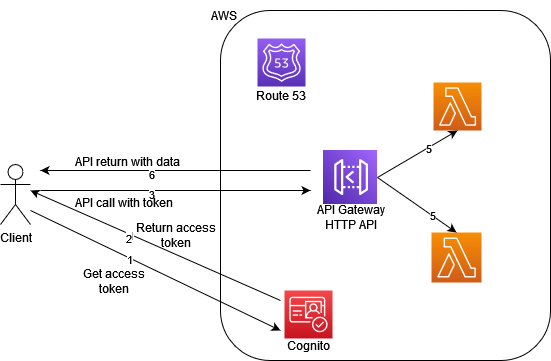
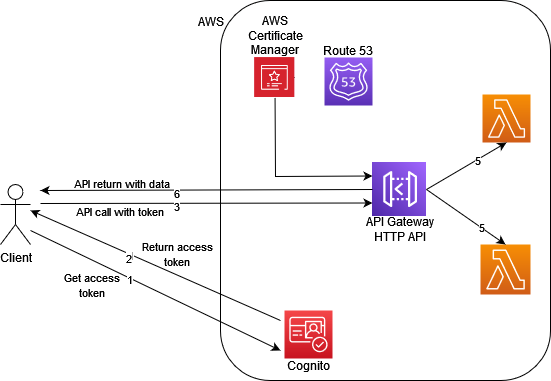
Code cleanup

diff --git a/calculator_api/calculator_api_stack.py b/calculator_api/calculator_api_stack.py
@@ -1,13 +1,11 @@
 from aws_cdk import(
-    App,
     Stack,
     RemovalPolicy,
     CfnOutput,
     Aws,
     Duration,
-    aws_apigatewayv2_alpha as aws_apigatewayv2,
+    aws_apigatewayv2_alpha,
     aws_apigatewayv2 as aws_apigatewayv2_stable,
-    aws_apigatewayv2_authorizers_alpha as aws_apigatewayv2_authorizers,
     aws_route53,
     aws_route53_targets,
     aws_lambda,
@@ -24,16 +22,11 @@ class CalculatorApiStack(Stack):
     def __init__(self, scope: Construct, construct_id: str, **kwargs) -> None:
         super().__init__(scope, construct_id, **kwargs)
 
-
         # Variables
         dns_domain = os.environ.get('DNS_DOMAIN', "my-domain.com")
-
         sub_domain_public = "calculator-api"
-
         userpool_domain = sub_domain_public
-
         hosted_zone = aws_route53.HostedZone.from_lookup( self, dns_domain, domain_name=dns_domain )
-
 
         # Cognito
 
@@ -95,22 +88,20 @@ class CalculatorApiStack(Stack):
             value=userpool_client.user_pool_client_id
         )
 
-        authorizer = aws_apigatewayv2_authorizers.HttpUserPoolAuthorizer(
-            "APIGWAuthorizer",
-            authorizer_name="APIGWAuthorizer",
-            pool=userpool,
-            user_pool_clients=[userpool_client]
+        # Add Cognito Client Secret to Cloudformation output
+        CfnOutput(
+            self,
+            "UserPoolClientSecret",
+            value=userpool_client.user_pool_client_secret.to_string()
         )
-
 
         self.userpool_id = userpool.user_pool_id
         self.userpool_audience = userpool_client.user_pool_client_id
         self.userpool_demain_name = "https://" + userpool_domain + ".auth." + Aws.REGION + ".amazoncognito.com"
         self.jwt_issuer = "https://cognito-idp." + Aws.REGION + ".amazonaws.com/" + self.userpool_id
 
-
         # HTTP API
-        apigw = aws_apigatewayv2.HttpApi(
+        apigw = aws_apigatewayv2_alpha.HttpApi(
             self,
             "calculator_api",
             api_name="calculator_api",
@@ -118,14 +109,13 @@ class CalculatorApiStack(Stack):
             create_default_stage=False
         )
 
-        default_stage = aws_apigatewayv2.HttpStage(
+        default_stage = aws_apigatewayv2_alpha.HttpStage(
             self,
             "DefaultStage",
             http_api=apigw,
             stage_name="$default",
             auto_deploy=True
         )
-
 
         # Lambda "lambda_plus" in Python
         with open("lambdas/lambda_plus.py", encoding="utf8") as fp:
@@ -150,7 +140,7 @@ class CalculatorApiStack(Stack):
             source_arn="arn:aws:execute-api:" + Aws.REGION + ":" + Aws.ACCOUNT_ID + ":" + apigw.http_api_id +"/*/*/plus"
         )
 
-        # Lambda "lambda_minus" in JS
+        # Lambda "lambda_minus" in Typescript
         with open("lambdas/lambda_minus.js", encoding="utf8") as fp:
             handler_code = fp.read()
 
@@ -195,60 +185,37 @@ class CalculatorApiStack(Stack):
             principal=iam.ServicePrincipal(service="apigateway.amazonaws.com"),
             source_arn="arn:aws:execute-api:" + Aws.REGION + ":" + Aws.ACCOUNT_ID + ":" + apigw.http_api_id +"/*/$default"
         )
-
-        # Lambda "lambda_test_typescript" in Typescript
-        with open("lambdas/typescript/dist/index.js", encoding="utf8") as fp:
-            handler_code = fp.read()
-
-        lambda_typescript = aws_lambda.Function(
-            self,
-            "lambda_typescrypt",
-            function_name="lambda_typescript",
-            description="Simple lambda with typescript",
-            code=aws_lambda.Code.from_asset('lambdas/typescript/dist/'),
-            handler="index.handler",
-            timeout=Duration.seconds(3),
-            runtime=aws_lambda.Runtime.NODEJS_14_X
-        )
-
-        # Permission for HTTP API to call the LAmbda function
-        lambda_typescript.add_permission(
-            "ApiGwPermLambdaDefaultRoute",
-            action="lambda:InvokeFunction",
-            principal=iam.ServicePrincipal(service="apigateway.amazonaws.com"),
-            source_arn="arn:aws:execute-api:" + Aws.REGION + ":" + Aws.ACCOUNT_ID + ":" + apigw.http_api_id +"/*/*/ts"
-        )
-        
-        # Default Integration + default authorizer
-        default_integration = aws_apigatewayv2.HttpIntegration(
+   
+        # Default Integration + default authorizer (JWT)
+        default_integration = aws_apigatewayv2_alpha.HttpIntegration(
             self,
             "DefaultIntegration",
             http_api=apigw,
-            integration_type=aws_apigatewayv2.HttpIntegrationType.AWS_PROXY, # LAMBDA_PROXY for cdk v1
+            integration_type=aws_apigatewayv2_alpha.HttpIntegrationType.AWS_PROXY, # LAMBDA_PROXY for cdk v1
             integration_uri=lambda_default_route.function_arn,
-            method=aws_apigatewayv2.HttpMethod.ANY,
-            payload_format_version=aws_apigatewayv2.PayloadFormatVersion.VERSION_2_0,
+            method=aws_apigatewayv2_alpha.HttpMethod.ANY,
+            payload_format_version=aws_apigatewayv2_alpha.PayloadFormatVersion.VERSION_2_0,
             secure_server_name=sub_domain_public + '.' + dns_domain
         )
 
-        jwt_authorizer = aws_apigatewayv2.HttpAuthorizer(
+        jwt_authorizer = aws_apigatewayv2_alpha.HttpAuthorizer(
             self,
             "JWTAuthorizer",
             http_api=apigw,
             identity_source=["$request.header.Authorization"],
-            type=aws_apigatewayv2.HttpAuthorizerType.JWT,
+            type=aws_apigatewayv2_alpha.HttpAuthorizerType.JWT,
             authorizer_name="JWTAuthorizer",
             jwt_audience=[self.userpool_audience],
             jwt_issuer=self.jwt_issuer
         )
 
-        # Default route
+        # Default route without authentication
         http_api_route_default = aws_apigatewayv2_stable.CfnRoute(
             self,
             "RouteDefault",
             api_id=apigw.api_id,
             route_key="$default",
-            authorization_type="NONE", #"JWT",
+            authorization_type="NONE",
             # authorizer_id=jwt_authorizer.authorizer_id,
             target="integrations/"+default_integration.integration_id
         )
@@ -256,14 +223,14 @@ class CalculatorApiStack(Stack):
         http_api_route_default.node.add_dependency(default_integration)
 
         # Route /plus with lambda_plus
-        endpoint_plus_integration = aws_apigatewayv2.HttpIntegration(
+        endpoint_plus_integration = aws_apigatewayv2_alpha.HttpIntegration(
             self,
             "IntegrationPlus",
             http_api=apigw,
-            integration_type=aws_apigatewayv2.HttpIntegrationType.AWS_PROXY, # LAMBDA_PROXY for cdk v1
+            integration_type=aws_apigatewayv2_alpha.HttpIntegrationType.AWS_PROXY, # LAMBDA_PROXY for cdk v1
             integration_uri=lambda_plus.function_arn,
-            method=aws_apigatewayv2.HttpMethod.ANY,
-            payload_format_version=aws_apigatewayv2.PayloadFormatVersion.VERSION_2_0,
+            method=aws_apigatewayv2_alpha.HttpMethod.ANY,
+            payload_format_version=aws_apigatewayv2_alpha.PayloadFormatVersion.VERSION_2_0,
             secure_server_name=sub_domain_public + '.' + dns_domain
         )
 
@@ -279,14 +246,14 @@ class CalculatorApiStack(Stack):
 
 
         # Route /minus with lambda_minus
-        endpoint_minus_integration = aws_apigatewayv2.HttpIntegration(
+        endpoint_minus_integration = aws_apigatewayv2_alpha.HttpIntegration(
             self,
             "IntegrationMinus",
             http_api=apigw,
-            integration_type=aws_apigatewayv2.HttpIntegrationType.AWS_PROXY, # LAMBDA_PROXY for cdk v1
+            integration_type=aws_apigatewayv2_alpha.HttpIntegrationType.AWS_PROXY, # LAMBDA_PROXY for cdk v1
             integration_uri=lambda_minus.function_arn,
-            method=aws_apigatewayv2.HttpMethod.ANY,
-            payload_format_version=aws_apigatewayv2.PayloadFormatVersion.VERSION_2_0,
+            method=aws_apigatewayv2_alpha.HttpMethod.GET,
+            payload_format_version=aws_apigatewayv2_alpha.PayloadFormatVersion.VERSION_2_0,
             secure_server_name=sub_domain_public + '.' + dns_domain
         )
 
@@ -302,36 +269,15 @@ class CalculatorApiStack(Stack):
 
         http_api_route_default.node.add_dependency(default_integration)
 
-        # Route /ts with  lambda_typescript
-        endpoint_ts_integration = aws_apigatewayv2.HttpIntegration(
-            self,
-            "IntegrationTs",
-            http_api=apigw,
-            integration_type=aws_apigatewayv2.HttpIntegrationType.AWS_PROXY, # LAMBDA_PROXY for cdk v1
-            integration_uri=lambda_typescript.function_arn,
-            method=aws_apigatewayv2.HttpMethod.ANY,
-            payload_format_version=aws_apigatewayv2.PayloadFormatVersion.VERSION_2_0,
-            secure_server_name=sub_domain_public + '.' + dns_domain
-        )
-
-        http_api_route_lambda_typescript = aws_apigatewayv2_stable.CfnRoute(
-            self,
-            "Route_lambda_typescript",
-            api_id=apigw.api_id,
-            route_key="GET /ts",
-            authorization_type="NONE",
-            target="integrations/" + endpoint_ts_integration.integration_id
-        )
-
         # Oauth2 Authentication Route
-        oauth2_integration = aws_apigatewayv2.HttpIntegration(
+        oauth2_integration = aws_apigatewayv2_alpha.HttpIntegration(
             self,
             "Oauth2Integration",
             http_api=apigw,
-            integration_type=aws_apigatewayv2.HttpIntegrationType.HTTP_PROXY,
-            connection_type=aws_apigatewayv2.HttpConnectionType.INTERNET,
-            method=aws_apigatewayv2.HttpMethod.ANY,
-            payload_format_version=aws_apigatewayv2.PayloadFormatVersion.VERSION_1_0,
+            integration_type=aws_apigatewayv2_alpha.HttpIntegrationType.HTTP_PROXY,
+            connection_type=aws_apigatewayv2_alpha.HttpConnectionType.INTERNET,
+            method=aws_apigatewayv2_alpha.HttpMethod.ANY,
+            payload_format_version=aws_apigatewayv2_alpha.PayloadFormatVersion.VERSION_1_0,
             integration_uri=self.userpool_demain_name + "/oauth2/token"
         )
 
@@ -353,13 +299,13 @@ class CalculatorApiStack(Stack):
                 id="ACMPublicSubdomain" + self.stack_name,
                 domain_name=(sub_domain_public + '.' + dns_domain).lower(),
                 validation=certificatemanager.CertificateValidation.from_dns(hosted_zone=hosted_zone)
-            )
+        )
 
         ###############################
         # Custom Domain & ApiMapping
         ###############################
 
-        custom_domain = aws_apigatewayv2.DomainName(
+        custom_domain = aws_apigatewayv2_alpha.DomainName(
             self,
             "CustomDomain",
             certificate=acm_certificate_public,
@@ -368,7 +314,7 @@ class CalculatorApiStack(Stack):
 
         custom_domain.node.add_dependency(apigw)
 
-        api_mapping = aws_apigatewayv2.ApiMapping(
+        api_mapping = aws_apigatewayv2_alpha.ApiMapping(
             self,
             "ApiMapping",
             api=apigw,
@@ -376,8 +322,8 @@ class CalculatorApiStack(Stack):
             stage=default_stage
         )
 
-        api_mapping.node.add_dependency(custom_domain)
-        api_mapping.node.add_dependency(default_stage)
+        # api_mapping.node.add_dependency(custom_domain)
+        # api_mapping.node.add_dependency(default_stage)
 
         custom_domain_name = aws_route53.RecordSet(
             self,

diff --git a/lambdas/lambda_default_route.py b/lambdas/lambda_default_route.py
@@ -3,7 +3,7 @@ import json
 def handler(event, context):
     print("received event: {}".format(event))
 
-    message="Hello! This is the default route without authentication.\nReceived event: " + json.dumps(event)
+    message="Hello! This is the default route without authentication.\n\nReceived event: " + json.dumps(event)
     response ={
         "statusCode": 200,
         "body": message

diff --git a/README.md b/README.md
@@ -73,7 +73,7 @@ Get first the `UserPoolID` and the `UserPoolClientID` created by the CDK
 Uset them with `aws cognito-idp` to get the `ClientId` and the `ClientSecret`
 
 ```bash
-aws cognito-idp describe-user-pool-client --user-pool-id us-east-1_LX6a3ggxu --client-id 618jhi0ako4kukld7rsh8tuq2g
+$ aws cognito-idp describe-user-pool-client --user-pool-id us-east-1_LX6a3ggxu --client-id 618jhi0ako4kukld7rsh8tuq2g
 {
     "UserPoolClient": {
         "UserPoolId": "us-east-1_LX6a3ggxu",
@@ -118,7 +118,7 @@ b'NjE4amhpMGFrbzRrdWtsZDdyc2g4dHVxMmc6ZTE3NGpsdTVtZGtyNm8xdmVkcDV0dmM0cnM2bGVpMW
 We'll use that JWT token to authenticate with the API HTTP Gateway using the endpoint /oauth2/token
 
 ```bash
-curl --location --request POST 'https://calculator-api.my-domain.com/oauth2/token?grant_type=client_credentials&client_id=618jhi0ako4kukld7rsh8tuq2g$scope=AuthIdentifier/json.read' \
+$ curl --location --request POST 'https://calculator-api.my-domain.com/oauth2/token?grant_type=client_credentials&client_id=618jhi0ako4kukld7rsh8tuq2g$scope=AuthIdentifier/json.read' \
                     --header 'Authorization: Basic NjE4amhpMGFrbzRrdWtsZDdyc2g4dHVxMmc6ZTE3NGpsdTVtZGtyNm8xdmVkcDV0dmM0cnM2bGVpMW5xbGFwdWZqYzE0bHVwN2xoaW01' \
                     --header 'Content-Type: application/x-x-www-form-urlencoded'
 
@@ -130,11 +130,11 @@ curl --location --request POST 'https://calculator-api.my-domain.com/oauth2/toke
 Now we can query the API Gateway using this token
 
 ```bash
-curl --location --request GET 'https://calculator-api.my-domain.com/minus?val1=3&val2=10' --header 'Content-Type: application/json' --header 'Authorization: Bearer eyJraWQiOiJRcHNTWU5oVjJFRzNpQ1d6bDd2SVM4N...................................." \
+$ curl --location --request GET 'https://calculator-api.my-domain.com/minus?val1=3&val2=10' --header 'Content-Type: application/json' --header 'Authorization: Bearer eyJraWQiOiJRcHNTWU5oVjJFRzNpQ1d6bDd2SVM4N...................................." \
         --header 'Content-Type: application/json'
 7
 ```
-The result `7` (10-3) is returned from the Lambda `lambda_minus`
+The result `7` (=10-3) is returned from the Lambda `lambda_minus`
 
 
 However, the default route (in our case the root path) doesn't need  authentication 
